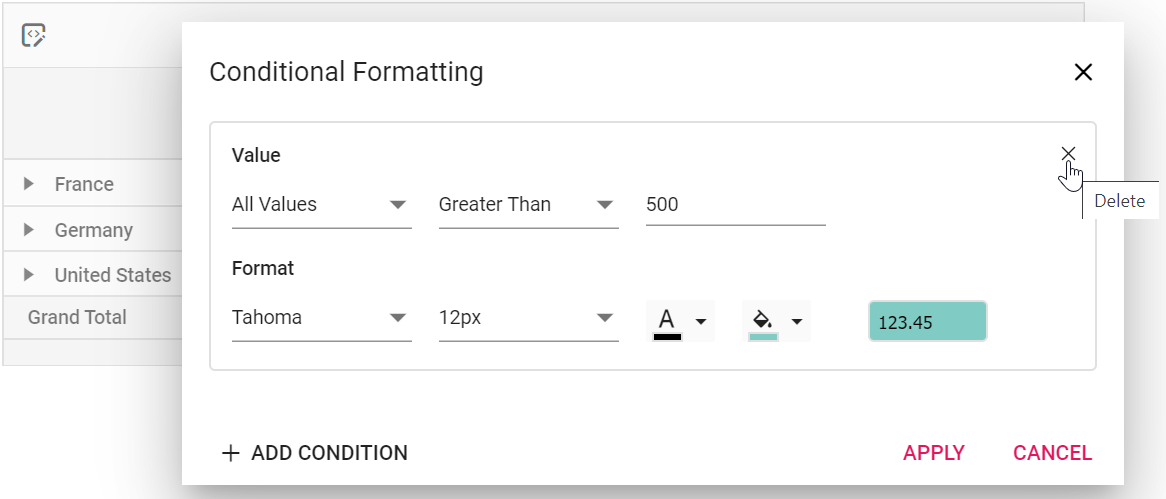
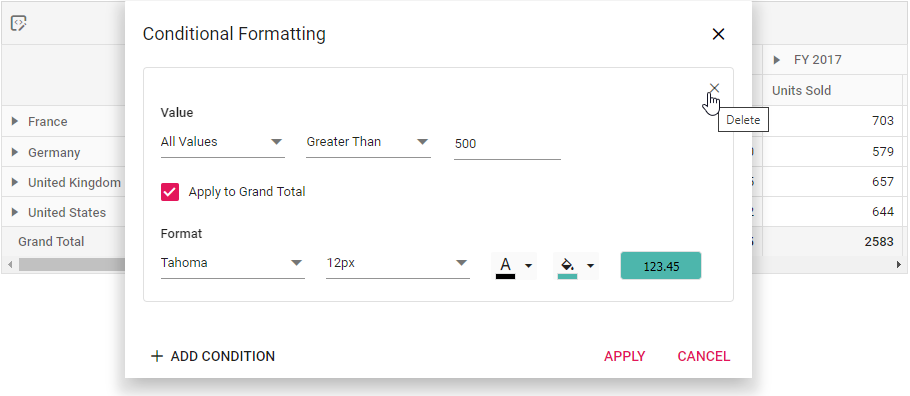
911290: To update conditional formatting UG document content.

diff --git a/ej2-asp-core-mvc/pivot-table/EJ2_ASP.MVC/conditional-formatting.md b/ej2-asp-core-mvc/pivot-table/EJ2_ASP.MVC/conditional-formatting.md
@@ -13,7 +13,7 @@ documentation: ug
 
 Allows end user to change the appearance of the pivot table value cells with its background color, font color, font family, and font size based on specific conditions.
 
-The conditional formatting can be applied at runtime through the built-in dialog, invoked from the toolbar. To do so, set [`AllowConditionalFormatting`](https://help.syncfusion.com/cr/aspnetcore-js2/Syncfusion.EJ2.PivotView.PivotView.html#Syncfusion_EJ2_PivotView_PivotView_AllowConditionalFormatting) and [`ShowToolbar`](https://help.syncfusion.com/cr/aspnetcore-js2/Syncfusion.EJ2.PivotView.PivotView.html#Syncfusion_EJ2_PivotView_PivotView_ShowToolbar) properties in [`PivotView`](https://help.syncfusion.com/cr/aspnetmvc-js2/Syncfusion.EJ2.PivotView.PivotView.html) class to **true**. Also, include the item **ConditionalFormatting** within the [`Toolbar`](https://help.syncfusion.com/cr/aspnetcore-js2/Syncfusion.EJ2.PivotView.PivotView.html#Syncfusion_EJ2_PivotView_PivotView_Toolbar) property in [`PivotView`](https://help.syncfusion.com/cr/aspnetmvc-js2/Syncfusion.EJ2.PivotView.PivotView.html) class. End user can now see the "Conditional Formatting" icon in toolbar UI automatically, which on clicking will invoke the formatting dialog to perform necessary operations.
+The conditional formatting can be applied at runtime through the built-in dialog, invoked from the toolbar. To do so, set [AllowConditionalFormatting](https://help.syncfusion.com/cr/aspnetcore-js2/Syncfusion.EJ2.PivotView.PivotView.html#Syncfusion_EJ2_PivotView_PivotView_AllowConditionalFormatting) and [ShowToolbar](https://help.syncfusion.com/cr/aspnetcore-js2/Syncfusion.EJ2.PivotView.PivotView.html#Syncfusion_EJ2_PivotView_PivotView_ShowToolbar) properties in [PivotView](https://help.syncfusion.com/cr/aspnetmvc-js2/Syncfusion.EJ2.PivotView.PivotView.html) class to **true**. Also, include the item **ConditionalFormatting** within the [Toolbar](https://help.syncfusion.com/cr/aspnetcore-js2/Syncfusion.EJ2.PivotView.PivotView.html#Syncfusion_EJ2_PivotView_PivotView_Toolbar) property in [PivotView](https://help.syncfusion.com/cr/aspnetmvc-js2/Syncfusion.EJ2.PivotView.PivotView.html) class. End user can now see the "Conditional Formatting" icon in toolbar UI automatically, which on clicking will invoke the formatting dialog to perform necessary operations.
 
 {% if page.publishingplatform == "aspnet-core" %}
 
@@ -52,20 +52,21 @@ The conditional formatting can be applied at runtime through the built-in dialog
 <br/>
 ![output](images/toolbar_cformatting_grid.png "Resultant pivot table on applied conditional format")
 
-Conditional formatting can also be included in the pivot table through code-behind using the [`PivotViewConditionalFormatSetting`](https://help.syncfusion.com/cr/aspnetmvc-js2/Syncfusion.EJ2.PivotView.PivotViewConditionalFormatSetting.html) class. The required properties to apply a new conditional formatting are,
+Conditional formatting can also be included in the pivot table through code-behind using the [PivotViewConditionalFormatSetting](https://help.syncfusion.com/cr/aspnetmvc-js2/Syncfusion.EJ2.PivotView.PivotViewConditionalFormatSetting.html) class. The required properties to apply a new conditional formatting are,
 
-* [`Measure`](https://help.syncfusion.com/cr/aspnetcore-js2/Syncfusion.EJ2.PivotView.PivotViewConditionalFormatSetting.html#Syncfusion_EJ2_PivotView_PivotViewConditionalFormatSetting_Measure): Specifies the value field name for which style will be applied.
-* [`Conditions`](https://help.syncfusion.com/cr/aspnetcore-js2/Syncfusion.EJ2.PivotView.PivotViewConditionalFormatSetting.html#Syncfusion_EJ2_PivotView_PivotViewConditionalFormatSetting_Conditions): Specifies the operator type such as equals, greater than, less than, etc.
-* [`Value1`](https://help.syncfusion.com/cr/aspnetcore-js2/Syncfusion.EJ2.PivotView.PivotViewConditionalFormatSetting.html#Syncfusion_EJ2_PivotView_PivotViewConditionalFormatSetting_Value1): Specifies the start value.
-* [`Value2`](https://help.syncfusion.com/cr/aspnetcore-js2/Syncfusion.EJ2.PivotView.PivotViewConditionalFormatSetting.html#Syncfusion_EJ2_PivotView_PivotViewConditionalFormatSetting_Value2): Specifies the end value.
-* [`PivotViewStyle`](https://help.syncfusion.com/cr/aspnetmvc-js2/Syncfusion.EJ2.PivotView.PivotViewStyle.html): Specifies the style for the cell.
+* [ApplyGrandTotals](https://ej2.syncfusion.com/documentation/api/pivotview/conditionalFormatSettingsModel/#applygrandtotals): This boolean property allows you to restrict conditional formatting for grand totals in the row and column axes. By default, this property is set to true.
+* [Measure](https://help.syncfusion.com/cr/aspnetcore-js2/Syncfusion.EJ2.PivotView.PivotViewConditionalFormatSetting.html#Syncfusion_EJ2_PivotView_PivotViewConditionalFormatSetting_Measure): Specifies the value field name for which style will be applied.
+* [Conditions](https://help.syncfusion.com/cr/aspnetcore-js2/Syncfusion.EJ2.PivotView.PivotViewConditionalFormatSetting.html#Syncfusion_EJ2_PivotView_PivotViewConditionalFormatSetting_Conditions):Defines the operator type used for conditional formatting, such as equals, greater than, less than, etc.
+* [Value1](https://help.syncfusion.com/cr/aspnetcore-js2/Syncfusion.EJ2.PivotView.PivotViewConditionalFormatSetting.html#Syncfusion_EJ2_PivotView_PivotViewConditionalFormatSetting_Value1): Specifies the starting value for the conditional formatting.
+* [Value2](https://help.syncfusion.com/cr/aspnetcore-js2/Syncfusion.EJ2.PivotView.PivotViewConditionalFormatSetting.html#Syncfusion_EJ2_PivotView_PivotViewConditionalFormatSetting_Value2): Specifies the ending value for the conditional formatting range. This property is applicable only for conditions like **Between** and **NotBetween**.
+* [PivotViewStyle](https://help.syncfusion.com/cr/aspnetmvc-js2/Syncfusion.EJ2.PivotView.PivotViewStyle.html): Specifies the custom styling applied to the cell.
 
-The available style properties in [`PivotViewStyle`](https://help.syncfusion.com/cr/aspnetmvc-js2/Syncfusion.EJ2.PivotView.PivotViewStyle.html) class, to set in value cells are:
+The available style properties in [PivotViewStyle](https://help.syncfusion.com/cr/aspnetmvc-js2/Syncfusion.EJ2.PivotView.PivotViewStyle.html) class, to set in value cells are:
 
-* [`BackgroundColor`](https://help.syncfusion.com/cr/aspnetcore-js2/Syncfusion.EJ2.PivotView.PivotViewStyle.html#Syncfusion_EJ2_PivotView_PivotViewStyle_BackgroundColor): Specifies the background color.
-* [`Color`](https://help.syncfusion.com/cr/aspnetcore-js2/Syncfusion.EJ2.PivotView.PivotViewStyle.html#Syncfusion_EJ2_PivotView_PivotViewStyle_Color): Specifies the font color.
-* [`FontFamily`](https://help.syncfusion.com/cr/aspnetcore-js2/Syncfusion.EJ2.PivotView.PivotViewStyle.html#Syncfusion_EJ2_PivotView_PivotViewStyle_FontFamily): Specifies the font family.
-* [`FontSize`](https://help.syncfusion.com/cr/aspnetcore-js2/Syncfusion.EJ2.PivotView.PivotViewStyle.html#Syncfusion_EJ2_PivotView_PivotViewStyle_FontSize): Specifies the font size.
+* [BackgroundColor](https://help.syncfusion.com/cr/aspnetcore-js2/Syncfusion.EJ2.PivotView.PivotViewStyle.html#Syncfusion_EJ2_PivotView_PivotViewStyle_BackgroundColor): It allows to set the background color to the value cell in the pivot table.
+* [Color](https://help.syncfusion.com/cr/aspnetcore-js2/Syncfusion.EJ2.PivotView.PivotViewStyle.html#Syncfusion_EJ2_PivotView_PivotViewStyle_Color): It allows to set the font color to the value cell in the pivot table.
+* [FontFamily](https://help.syncfusion.com/cr/aspnetcore-js2/Syncfusion.EJ2.PivotView.PivotViewStyle.html#Syncfusion_EJ2_PivotView_PivotViewStyle_FontFamily): It allows to set the font family to the value cell in the pivot table.
+* [FontSize](https://help.syncfusion.com/cr/aspnetcore-js2/Syncfusion.EJ2.PivotView.PivotViewStyle.html#Syncfusion_EJ2_PivotView_PivotViewStyle_FontSize): It allows to set the font size to the value cell in the pivot table.
 
 Meanwhile, user can also view conditional formatting dialog in UI by invoking `ShowConditionalFormattingDialog` method on an external button click which is shown in the below code sample.
 
@@ -100,7 +101,7 @@ Meanwhile, user can also view conditional formatting dialog in UI by invoking `S
 
 ## Conditional formatting for all fields
 
-Allows end user to apply conditional formatting commonly for all value fields just by ignoring the [`Measure`](https://help.syncfusion.com/cr/aspnetcore-js2/Syncfusion.EJ2.PivotView.PivotViewConditionalFormatSetting.html#Syncfusion_EJ2_PivotView_PivotViewConditionalFormatSetting_Measure) property and setting rest of the properties in [`PivotViewConditionalFormatSettings`](https://help.syncfusion.com/cr/aspnetmvc-js2/Syncfusion.EJ2.PivotView.PivotViewConditionalFormatSetting.html) class.
+Allows end user to apply conditional formatting commonly for all value fields just by ignoring the [Measure](https://help.syncfusion.com/cr/aspnetcore-js2/Syncfusion.EJ2.PivotView.PivotViewConditionalFormatSetting.html#Syncfusion_EJ2_PivotView_PivotViewConditionalFormatSetting_Measure) property and setting rest of the properties in [PivotViewConditionalFormatSettings](https://help.syncfusion.com/cr/aspnetmvc-js2/Syncfusion.EJ2.PivotView.PivotViewConditionalFormatSetting.html) class.
 
 {% if page.publishingplatform == "aspnet-core" %}
 
@@ -131,7 +132,7 @@ Allows end user to apply conditional formatting commonly for all value fields ju
 
 ## Conditional formatting for specific value field
 
-Allows end user to apply conditional formatting to a specific value field by setting the [`Measure`](https://help.syncfusion.com/cr/aspnetcore-js2/Syncfusion.EJ2.PivotView.PivotViewConditionalFormatSetting.html#Syncfusion_EJ2_PivotView_PivotViewConditionalFormatSetting_Measure) property with specific value field name in [`PivotViewConditionalFormatSettings`](https://help.syncfusion.com/cr/aspnetmvc-js2/Syncfusion.EJ2.PivotView.PivotViewConditionalFormatSetting.html) class.
+Allows end user to apply conditional formatting to a specific value field by setting the [Measure](https://help.syncfusion.com/cr/aspnetcore-js2/Syncfusion.EJ2.PivotView.PivotViewConditionalFormatSetting.html#Syncfusion_EJ2_PivotView_PivotViewConditionalFormatSetting_Measure) property with specific value field name in [PivotViewConditionalFormatSettings](https://help.syncfusion.com/cr/aspnetmvc-js2/Syncfusion.EJ2.PivotView.PivotViewConditionalFormatSetting.html) class.
 
 {% if page.publishingplatform == "aspnet-core" %}
 
@@ -162,13 +163,13 @@ Allows end user to apply conditional formatting to a specific value field by set
 
 ### Conditional formatting for specific row or column
 
-You can apply conditional formatting for specific row or column using [`Label`](https://help.syncfusion.com/cr/aspnetmvc-js2/Syncfusion.EJ2.PivotView.PivotViewConditionalFormatSetting.html#Syncfusion_EJ2_PivotView_PivotViewConditionalFormatSetting_Label) option in the pivot table. It can be configured using the [`PivotViewConditionalFormatSettings`](https://help.syncfusion.com/cr/aspnetmvc-js2/Syncfusion.EJ2.PivotView.PivotViewConditionalFormatSetting.html) tag through code behind, during initial rendering. The required settings are:
+You can apply conditional formatting for specific row or column using [Label](https://help.syncfusion.com/cr/aspnetmvc-js2/Syncfusion.EJ2.PivotView.PivotViewConditionalFormatSetting.html#Syncfusion_EJ2_PivotView_PivotViewConditionalFormatSetting_Label) option in the pivot table. It can be configured using the [PivotViewConditionalFormatSettings](https://help.syncfusion.com/cr/aspnetmvc-js2/Syncfusion.EJ2.PivotView.PivotViewConditionalFormatSetting.html) tag through code behind, during initial rendering. The required settings are:
 
-* [`Label`](https://help.syncfusion.com/cr/aspnetmvc-js2/Syncfusion.EJ2.PivotView.PivotViewConditionalFormatSetting.html#Syncfusion_EJ2_PivotView_PivotViewConditionalFormatSetting_Label): Specifies the header name to apply conditions for row or column.
-* [`Conditions`](https://help.syncfusion.com/cr/aspnetmvc-js2/Syncfusion.EJ2.PivotView.PivotViewConditionalFormatSetting.html#Syncfusion_EJ2_PivotView_PivotViewConditionalFormatSetting_Conditions): Specifies the operator type such as equals, greater than, less than, etc.
-* [`Value1`](https://help.syncfusion.com/cr/aspnetmvc-js2/Syncfusion.EJ2.PivotView.PivotViewConditionalFormatSetting.html#Syncfusion_EJ2_PivotView_PivotViewConditionalFormatSetting_Value1): Specifies the start value.
-* [`Value2`](https://help.syncfusion.com/cr/aspnetmvc-js2/Syncfusion.EJ2.PivotView.PivotViewConditionalFormatSetting.html#Syncfusion_EJ2_PivotView_PivotViewConditionalFormatSetting_Value2): Specifies the end value.
-* [`PivotViewStyle`](https://help.syncfusion.com/cr/aspnetmvc-js2/Syncfusion.EJ2.PivotView.PivotViewStyle.html): Specifies the style for the cell.
+* [Label](https://help.syncfusion.com/cr/aspnetmvc-js2/Syncfusion.EJ2.PivotView.PivotViewConditionalFormatSetting.html#Syncfusion_EJ2_PivotView_PivotViewConditionalFormatSetting_Label): Specifies the header name to apply conditions for row or column.
+* [Conditions](https://help.syncfusion.com/cr/aspnetmvc-js2/Syncfusion.EJ2.PivotView.PivotViewConditionalFormatSetting.html#Syncfusion_EJ2_PivotView_PivotViewConditionalFormatSetting_Conditions): Defines the operator type used for conditional formatting, such as equals, greater than, less than, etc.
+* [Value1](https://help.syncfusion.com/cr/aspnetmvc-js2/Syncfusion.EJ2.PivotView.PivotViewConditionalFormatSetting.html#Syncfusion_EJ2_PivotView_PivotViewConditionalFormatSetting_Value1): Specifies the starting value for the conditional formatting.
+* [Value2](https://help.syncfusion.com/cr/aspnetmvc-js2/Syncfusion.EJ2.PivotView.PivotViewConditionalFormatSetting.html#Syncfusion_EJ2_PivotView_PivotViewConditionalFormatSetting_Value2): Specifies the ending value for the conditional formatting range. This property is applicable only for conditions like **Between** and **NotBetween**.
+* [PivotViewStyle](https://help.syncfusion.com/cr/aspnetmvc-js2/Syncfusion.EJ2.PivotView.PivotViewStyle.html): Specifies the custom styling applied to the cell.
 
 {% if page.publishingplatform == "aspnet-core" %}
 
@@ -207,13 +208,13 @@ Editing and removing existing conditional format can be done through the UI at r
 
 The event `ConditionalFormatting` is triggered initially while clicking the “ADD CONDITION” button inside the conditional formatting dialog in-order to fill user specific condition instead of default condition at runtime. To use this event, `AllowConditionalFormatting` property in PivotView must be set to **true**. It has following parameters -
 
-* `applyGrandTotals` - boolean property, by setting this to true user can enable formatting to grand totals.
-* `conditions` - condition to be filled in conditional formatting dialog.
-* `label` - Label value for conditional formatting dialog.
-* `measure` - measure value for the conditional formatting dialog.
-* `style` - style property of the conditional formatting dialog.
-* `value1` - value 1 for conditional formatting dialog.
-* `value2` - value 2 for conditional formatting dialog, this is applicable only for selected conditions like **Between** and **NotBetween**.
+* `applyGrandTotals` - Allows to apply conditional formatting to the grand totals of row and column axis in the pivot table.
+* `conditions` - Allows you to choose the operator type such as equals, greater than, less than, etc. for conditional formatting.
+* `label` - Allows to set the header text of a specific row/column field to apply conditional formatting.
+* `measure` - Allows to set the value field name to apply conditional formatting.
+* `style` - Allows to set the custom styles for the formatting applied values in the pivot table.
+* `value1` - Allows you to set the start value for applying conditional formatting.
+* `value2` - Allows you to set the end value for applying conditional formatting. This property is applicable only for conditions like **Between** and **NotBetween**.
 
 {% if page.publishingplatform == "aspnet-core" %}
 

diff --git a/ej2-asp-core-mvc/pivot-table/EJ2_ASP.NETCORE/conditional-formatting.md b/ej2-asp-core-mvc/pivot-table/EJ2_ASP.NETCORE/conditional-formatting.md
@@ -13,7 +13,7 @@ documentation: ug
 
 Allows end user to change the appearance of the pivot table value cells with its background color, font color, font family, and font size based on specific conditions.
 
-The conditional formatting can be applied at runtime through the built-in dialog, invoked from the toolbar. To do so, set [`allowConditionalFormatting`](https://help.syncfusion.com/cr/aspnetcore-js2/Syncfusion.EJ2.PivotView.PivotView.html#Syncfusion_EJ2_PivotView_PivotView_AllowConditionalFormatting) and [`showToolbar`](https://help.syncfusion.com/cr/aspnetcore-js2/Syncfusion.EJ2.PivotView.PivotView.html#Syncfusion_EJ2_PivotView_PivotView_ShowToolbar) properties in [`ejs-pivotview`](https://help.syncfusion.com/cr/aspnetcore-js2/Syncfusion.EJ2.PivotView.PivotView.html) tag to **true**. Also, include the item **ConditionalFormatting** within the [`toolbar`](https://help.syncfusion.com/cr/aspnetcore-js2/Syncfusion.EJ2.PivotView.PivotView.html#Syncfusion_EJ2_PivotView_PivotView_Toolbar) property in [`ejs-pivotview`](https://help.syncfusion.com/cr/aspnetcore-js2/Syncfusion.EJ2.PivotView.PivotView.html) tag. End user can now see the "Conditional Formatting" icon in toolbar UI automatically, which on clicking will invoke the formatting dialog to perform necessary operations.
+The conditional formatting can be applied at runtime through the built-in dialog, invoked from the toolbar. To do so, set [allowConditionalFormatting](https://help.syncfusion.com/cr/aspnetcore-js2/Syncfusion.EJ2.PivotView.PivotView.html#Syncfusion_EJ2_PivotView_PivotView_AllowConditionalFormatting) and [showToolbar](https://help.syncfusion.com/cr/aspnetcore-js2/Syncfusion.EJ2.PivotView.PivotView.html#Syncfusion_EJ2_PivotView_PivotView_ShowToolbar) properties in [ejs-pivotview](https://help.syncfusion.com/cr/aspnetcore-js2/Syncfusion.EJ2.PivotView.PivotView.html) tag to **true**. Also, include the item **ConditionalFormatting** within the [toolbar](https://help.syncfusion.com/cr/aspnetcore-js2/Syncfusion.EJ2.PivotView.PivotView.html#Syncfusion_EJ2_PivotView_PivotView_Toolbar) property in [ejs-pivotview](https://help.syncfusion.com/cr/aspnetcore-js2/Syncfusion.EJ2.PivotView.PivotView.html) tag. End user can now see the "Conditional Formatting" icon in toolbar UI automatically, which on clicking will invoke the formatting dialog to perform necessary operations.
 
 {% if page.publishingplatform == "aspnet-core" %}
 
@@ -52,20 +52,21 @@ The conditional formatting can be applied at runtime through the built-in dialog
 <br/>
 ![output](images/toolbar_cformatting_grid.png "Resultant pivot table on applied conditional format")
 
-Conditional formatting can also be included in the pivot table through code-behind using the [`e-conditionalformatsettings`](https://help.syncfusion.com/cr/aspnetcore-js2/Syncfusion.EJ2.PivotView.PivotViewConditionalFormatSetting.html) tag. The required properties to apply a new conditional formatting are,
+Conditional formatting can also be included in the pivot table through code-behind using the [e-conditionalformatsettings](https://help.syncfusion.com/cr/aspnetcore-js2/Syncfusion.EJ2.PivotView.PivotViewConditionalFormatSetting.html) tag. The required properties to apply a new conditional formatting are,
 
-* [`measure`](https://help.syncfusion.com/cr/aspnetcore-js2/Syncfusion.EJ2.PivotView.PivotViewConditionalFormatSetting.html#Syncfusion_EJ2_PivotView_PivotViewConditionalFormatSetting_Measure): Specifies the value field name for which style will be applied.
-* [`conditions`](https://help.syncfusion.com/cr/aspnetcore-js2/Syncfusion.EJ2.PivotView.PivotViewConditionalFormatSetting.html#Syncfusion_EJ2_PivotView_PivotViewConditionalFormatSetting_Conditions): Specifies the operator type such as equals, greater than, less than, etc.
-* [`value1`](https://help.syncfusion.com/cr/aspnetcore-js2/Syncfusion.EJ2.PivotView.PivotViewConditionalFormatSetting.html#Syncfusion_EJ2_PivotView_PivotViewConditionalFormatSetting_Value1): Specifies the start value.
-* [`value2`](https://help.syncfusion.com/cr/aspnetcore-js2/Syncfusion.EJ2.PivotView.PivotViewConditionalFormatSetting.html#Syncfusion_EJ2_PivotView_PivotViewConditionalFormatSetting_Value2): Specifies the end value.
-* [`style`](https://help.syncfusion.com/cr/aspnetcore-js2/Syncfusion.EJ2.PivotView.PivotViewStyle.html): Specifies the style for the cell.
+* [applyGrandTotals](https://ej2.syncfusion.com/documentation/api/pivotview/conditionalFormatSettingsModel/#applygrandtotals): This boolean property allows you to restrict conditional formatting for grand totals in the row and column axes. By default, this property is set to true.
+* [measure](https://help.syncfusion.com/cr/aspnetcore-js2/Syncfusion.EJ2.PivotView.PivotViewConditionalFormatSetting.html#Syncfusion_EJ2_PivotView_PivotViewConditionalFormatSetting_Measure): Specifies the value field name for which style will be applied.
+* [conditions](https://help.syncfusion.com/cr/aspnetcore-js2/Syncfusion.EJ2.PivotView.PivotViewConditionalFormatSetting.html#Syncfusion_EJ2_PivotView_PivotViewConditionalFormatSetting_Conditions): Defines the operator type used for conditional formatting, such as equals, greater than, less than, etc.
+* [value1](https://help.syncfusion.com/cr/aspnetcore-js2/Syncfusion.EJ2.PivotView.PivotViewConditionalFormatSetting.html#Syncfusion_EJ2_PivotView_PivotViewConditionalFormatSetting_Value1): Specifies the starting value for the conditional formatting.
+* [value2](https://help.syncfusion.com/cr/aspnetcore-js2/Syncfusion.EJ2.PivotView.PivotViewConditionalFormatSetting.html#Syncfusion_EJ2_PivotView_PivotViewConditionalFormatSetting_Value2): Specifies the ending value for the conditional formatting range. This property is applicable only for conditions like **Between** and **NotBetween**.
+* [style](https://help.syncfusion.com/cr/aspnetcore-js2/Syncfusion.EJ2.PivotView.PivotViewStyle.html): Specifies the custom styling applied to the cell.
 
-The available style properties in [`e-field-style`](https://help.syncfusion.com/cr/aspnetcore-js2/Syncfusion.EJ2.PivotView.PivotViewStyle.html) tag, to set in value cells are:
+The available style properties in [e-field-style](https://help.syncfusion.com/cr/aspnetcore-js2/Syncfusion.EJ2.PivotView.PivotViewStyle.html) tag, to set in value cells are:
 
-* [`backgroundColor`](https://help.syncfusion.com/cr/aspnetcore-js2/Syncfusion.EJ2.PivotView.PivotViewStyle.html#Syncfusion_EJ2_PivotView_PivotViewStyle_BackgroundColor): Specifies the background color.
-* [`color`](https://help.syncfusion.com/cr/aspnetcore-js2/Syncfusion.EJ2.PivotView.PivotViewStyle.html#Syncfusion_EJ2_PivotView_PivotViewStyle_Color): Specifies the font color.
-* [`fontFamily`](https://help.syncfusion.com/cr/aspnetcore-js2/Syncfusion.EJ2.PivotView.PivotViewStyle.html#Syncfusion_EJ2_PivotView_PivotViewStyle_FontFamily): Specifies the font family.
-* [`fontSize`](https://help.syncfusion.com/cr/aspnetcore-js2/Syncfusion.EJ2.PivotView.PivotViewStyle.html#Syncfusion_EJ2_PivotView_PivotViewStyle_FontSize): Specifies the font size.
+* [backgroundColor](https://help.syncfusion.com/cr/aspnetcore-js2/Syncfusion.EJ2.PivotView.PivotViewStyle.html#Syncfusion_EJ2_PivotView_PivotViewStyle_BackgroundColor): It allows to set the background color to the value cell in the pivot table.
+* [color](https://help.syncfusion.com/cr/aspnetcore-js2/Syncfusion.EJ2.PivotView.PivotViewStyle.html#Syncfusion_EJ2_PivotView_PivotViewStyle_Color): It allows to set the font color to the value cell in the pivot table.
+* [fontFamily](https://help.syncfusion.com/cr/aspnetcore-js2/Syncfusion.EJ2.PivotView.PivotViewStyle.html#Syncfusion_EJ2_PivotView_PivotViewStyle_FontFamily): It allows to set the font family to the value cell in the pivot table.
+* [fontSize](https://help.syncfusion.com/cr/aspnetcore-js2/Syncfusion.EJ2.PivotView.PivotViewStyle.html#Syncfusion_EJ2_PivotView_PivotViewStyle_FontSize): It allows to set the font size to the value cell in the pivot table.
 
 Meanwhile, user can also view conditional formatting dialog in UI by invoking `showConditionalFormattingDialog` method on an external button click which is shown in the below code sample.
 
@@ -100,7 +101,7 @@ Meanwhile, user can also view conditional formatting dialog in UI by invoking `s
 
 ## Conditional formatting for all fields
 
-Allows end user to apply conditional formatting commonly for all value fields just by ignoring the [`measure`](https://help.syncfusion.com/cr/aspnetcore-js2/Syncfusion.EJ2.PivotView.PivotViewConditionalFormatSetting.html#Syncfusion_EJ2_PivotView_PivotViewConditionalFormatSetting_Measure) property and setting rest of the properties in [`e-conditionalformatsettings`](https://help.syncfusion.com/cr/aspnetcore-js2/Syncfusion.EJ2.PivotView.PivotViewConditionalFormatSetting.html) tag.
+Allows end user to apply conditional formatting commonly for all value fields just by ignoring the [measure](https://help.syncfusion.com/cr/aspnetcore-js2/Syncfusion.EJ2.PivotView.PivotViewConditionalFormatSetting.html#Syncfusion_EJ2_PivotView_PivotViewConditionalFormatSetting_Measure) property and setting rest of the properties in [e-conditionalformatsettings](https://help.syncfusion.com/cr/aspnetcore-js2/Syncfusion.EJ2.PivotView.PivotViewConditionalFormatSetting.html) tag.
 
 {% if page.publishingplatform == "aspnet-core" %}
 
@@ -131,7 +132,7 @@ Allows end user to apply conditional formatting commonly for all value fields ju
 
 ## Conditional formatting for specific value field
 
-Allows end user to apply conditional formatting to a specific value field by setting the [`measure`](https://help.syncfusion.com/cr/aspnetcore-js2/Syncfusion.EJ2.PivotView.PivotViewConditionalFormatSetting.html#Syncfusion_EJ2_PivotView_PivotViewConditionalFormatSetting_Measure) property with specific value field name in [`e-conditionalformatsettings`](https://help.syncfusion.com/cr/aspnetcore-js2/Syncfusion.EJ2.PivotView.PivotViewConditionalFormatSetting.html) tag.
+Allows end user to apply conditional formatting to a specific value field by setting the [measure](https://help.syncfusion.com/cr/aspnetcore-js2/Syncfusion.EJ2.PivotView.PivotViewConditionalFormatSetting.html#Syncfusion_EJ2_PivotView_PivotViewConditionalFormatSetting_Measure) property with specific value field name in [e-conditionalformatsettings](https://help.syncfusion.com/cr/aspnetcore-js2/Syncfusion.EJ2.PivotView.PivotViewConditionalFormatSetting.html) tag.
 
 {% if page.publishingplatform == "aspnet-core" %}
 
@@ -162,13 +163,13 @@ Allows end user to apply conditional formatting to a specific value field by set
 
 ## Conditional formatting for specific row or column
 
-You can apply conditional formatting for specific row or column using [`label`](https://help.syncfusion.com/cr/aspnetcore-js2/Syncfusion.EJ2.PivotView.PivotViewConditionalFormatSetting.html#Syncfusion_EJ2_PivotView_PivotViewConditionalFormatSetting_Label) option in the pivot table. It can be configured using the [`e-conditionalformatsettings`](https://help.syncfusion.com/cr/aspnetcore-js2/Syncfusion.EJ2.PivotView.PivotViewConditionalFormatSetting.html) tag through code behind, during initial rendering. The required settings are:
+You can apply conditional formatting for specific row or column using [label](https://help.syncfusion.com/cr/aspnetcore-js2/Syncfusion.EJ2.PivotView.PivotViewConditionalFormatSetting.html#Syncfusion_EJ2_PivotView_PivotViewConditionalFormatSetting_Label) option in the pivot table. It can be configured using the [e-conditionalformatsettings](https://help.syncfusion.com/cr/aspnetcore-js2/Syncfusion.EJ2.PivotView.PivotViewConditionalFormatSetting.html) tag through code behind, during initial rendering. The required settings are:
 
-* [`label`](https://help.syncfusion.com/cr/aspnetcore-js2/Syncfusion.EJ2.PivotView.PivotViewConditionalFormatSetting.html#Syncfusion_EJ2_PivotView_PivotViewConditionalFormatSetting_Label): Specifies the header name to apply conditions for row or column.
-* [`conditions`](https://help.syncfusion.com/cr/aspnetcore-js2/Syncfusion.EJ2.PivotView.PivotViewConditionalFormatSetting.html#Syncfusion_EJ2_PivotView_PivotViewConditionalFormatSetting_Conditions): Specifies the operator type such as equals, greater than, less than, etc.
-* [`value1`](https://help.syncfusion.com/cr/aspnetcore-js2/Syncfusion.EJ2.PivotView.PivotViewConditionalFormatSetting.html#Syncfusion_EJ2_PivotView_PivotViewConditionalFormatSetting_Value1): Specifies the start value.
-* [`value2`](https://help.syncfusion.com/cr/aspnetcore-js2/Syncfusion.EJ2.PivotView.PivotViewConditionalFormatSetting.html#Syncfusion_EJ2_PivotView_PivotViewConditionalFormatSetting_Value2): Specifies the end value.
-* [`style`](https://help.syncfusion.com/cr/aspnetcore-js2/Syncfusion.EJ2.PivotView.PivotViewStyle.html): Specifies the style for the cell.
+* [label](https://help.syncfusion.com/cr/aspnetcore-js2/Syncfusion.EJ2.PivotView.PivotViewConditionalFormatSetting.html#Syncfusion_EJ2_PivotView_PivotViewConditionalFormatSetting_Label): Specifies the header name to apply conditions for row or column.
+* [conditions](https://help.syncfusion.com/cr/aspnetcore-js2/Syncfusion.EJ2.PivotView.PivotViewConditionalFormatSetting.html#Syncfusion_EJ2_PivotView_PivotViewConditionalFormatSetting_Conditions): Defines the operator type used for conditional formatting, such as equals, greater than, less than, etc.
+* [value1](https://help.syncfusion.com/cr/aspnetcore-js2/Syncfusion.EJ2.PivotView.PivotViewConditionalFormatSetting.html#Syncfusion_EJ2_PivotView_PivotViewConditionalFormatSetting_Value1): Specifies the starting value for the conditional formatting.
+* [value2](https://help.syncfusion.com/cr/aspnetcore-js2/Syncfusion.EJ2.PivotView.PivotViewConditionalFormatSetting.html#Syncfusion_EJ2_PivotView_PivotViewConditionalFormatSetting_Value2): Specifies the ending value for the conditional formatting range. This property is applicable only for conditions like **Between** and **NotBetween**.
+* [style](https://help.syncfusion.com/cr/aspnetcore-js2/Syncfusion.EJ2.PivotView.PivotViewStyle.html): Specifies the custom styling applied to the cell.
 
 {% if page.publishingplatform == "aspnet-core" %}
 
@@ -207,13 +208,13 @@ Editing and removing existing conditional format can be done through the UI at r
 
 The event `conditionalFormatting` is triggered initially while clicking the “ADD CONDITION” button inside the conditional formatting dialog in-order to fill user specific condition instead of default condition at runtime. To use this event, `allowConditionalFormatting` property in PivotView must be set to **true**. It has following parameters -
 
-* `applyGrandTotals` - boolean property, by setting this to true user can enable formatting to grand totals.
-* `conditions` - condition to be filled in conditional formatting dialog.
-* `label` - Label value for conditional formatting dialog.
-* `measure` - measure value for the conditional formatting dialog.
-* `style` - style property of the conditional formatting dialog.
-* `value1` - value 1 for conditional formatting dialog.
-* `value2` - value 2 for conditional formatting dialog, this is applicable only for selected conditions like **Between** and **NotBetween**.
+* `applyGrandTotals` - Allows to apply conditional formatting to the grand totals of row and column axis in the pivot table.
+* `conditions` - Allows you to choose the operator type such as equals, greater than, less than, etc. for conditional formatting.
+* `label` - Allows to set the header text of a specific row/column field to apply conditional formatting.
+* `measure` - Allows to set the value field name to apply conditional formatting.
+* `style` - Allows to set the custom styles for the formatting applied values in the pivot table.
+* `value1` - Allows you to set the start value for applying conditional formatting.
+* `value2` - Allows you to set the end value for applying conditional formatting. This property is applicable only for conditions like **Between** and **NotBetween**.
 
 {% if page.publishingplatform == "aspnet-core" %}
 
